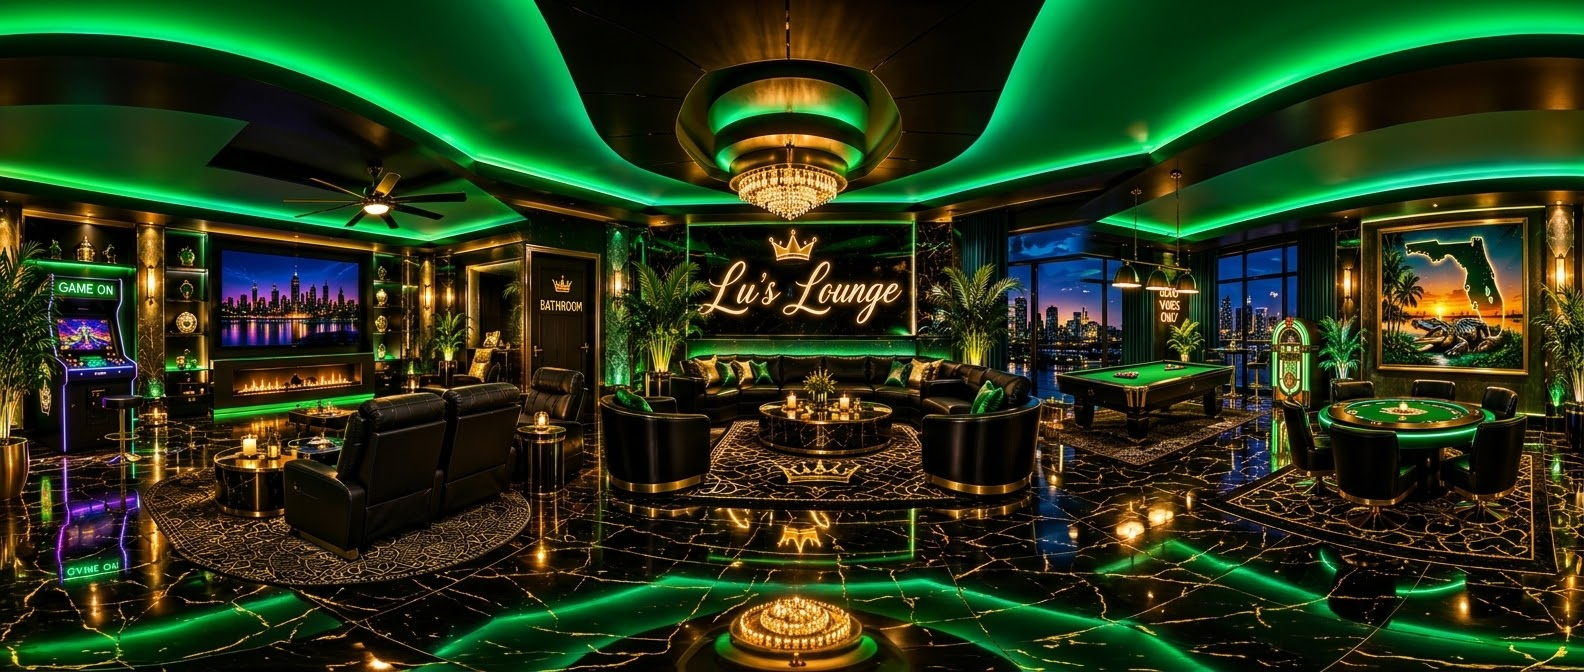
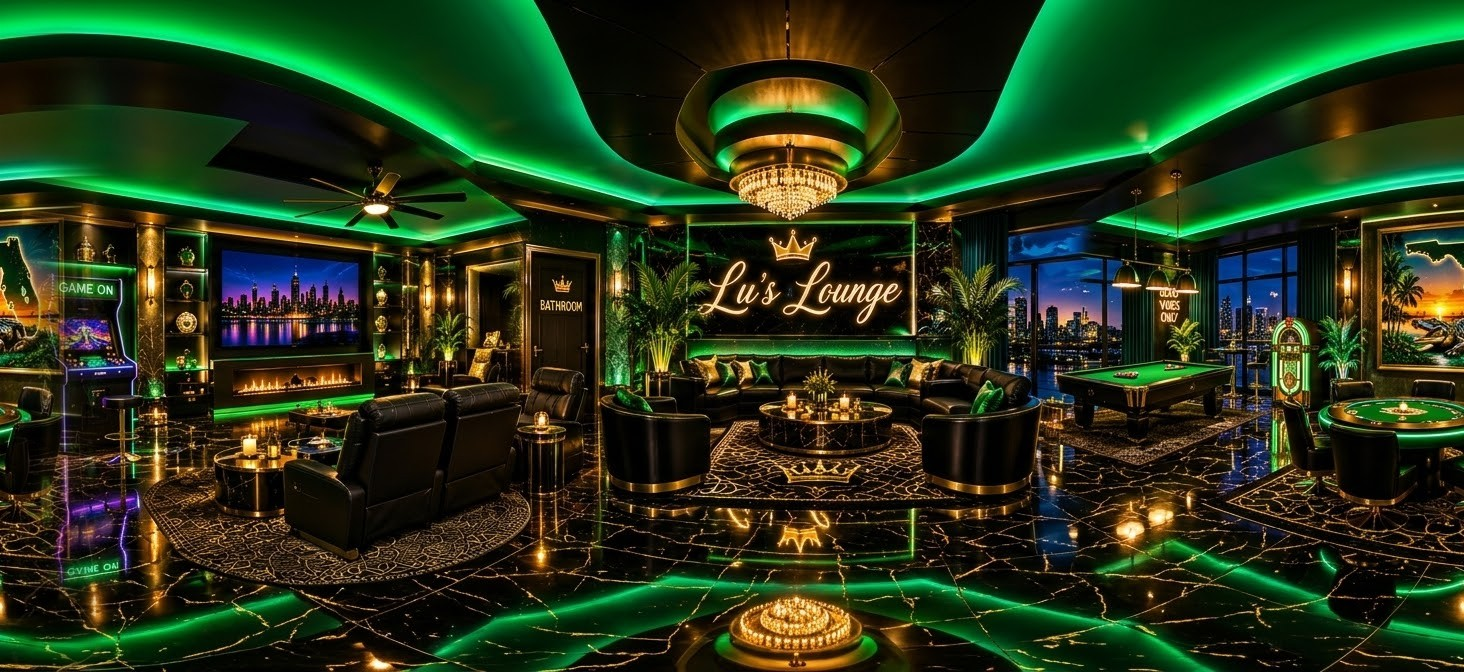
360 look-around: endless spin with blended seam, momentum, arrows
Claude-Session: https://claude.ai/code/session_014kKEAi9YpWMgHaP7K5RMBS

diff --git a/shop.js b/shop.js
@@ -88,9 +88,9 @@ const tabsMarkup = (id, a, b) => `<div class="tabs" id="${id}"><button type="but
 
 /* ---------- the menu: three floating holograms ---------- */
 const ITEMS = [
-  { id: "ice",  icon: "❄", name: "Honeydrippers", detail: "Frozen Kool-Aid ice cups with candy and/or fruit", kind: "amount", color: "mint",  spot: { l: 44.2, t: 50, w: 7, h: 16 } },
-  { id: "tea",  icon: "🌴", name: "Herbal teas",   detail: "Small or Big · choose a bundle",                    kind: "tea",    color: "green", spot: { l: 49.0, t: 47.5, w: 7, h: 16 } },
-  { id: "shot", icon: "⚕", name: "Herbal shots",  detail: "Small or Medium · priced per shot glass",           kind: "shot",   color: "gold",  spot: { l: 53.8, t: 50, w: 7, h: 16 } }
+  { id: "ice",  icon: "❄", name: "Honeydrippers", detail: "Frozen Kool-Aid ice cups with candy and/or fruit", kind: "amount", color: "mint",  spot: { l: 47.8, t: 50, w: 7.6, h: 16 } },
+  { id: "tea",  icon: "🌴", name: "Herbal teas",   detail: "Small or Big · choose a bundle",                    kind: "tea",    color: "green", spot: { l: 53.0, t: 47.5, w: 7.6, h: 16 } },
+  { id: "shot", icon: "⚕", name: "Herbal shots",  detail: "Small or Medium · priced per shot glass",           kind: "shot",   color: "gold",  spot: { l: 58.2, t: 50, w: 7.6, h: 16 } }
 ];
 const COLORS = { mint: "#8dffe6", green: "#38ff7a", gold: "#ffd36a" };
 
@@ -125,14 +125,26 @@ root.innerHTML = `
   <section class="lounge" aria-label="Lu’s Lounge lounge">
     <div class="lounge-viewport" id="lounge-viewport">
       <div class="lounge-world" id="lounge-world">
-        <img class="lounge-art" src="./art/lounge.jpg" alt="The private lounge: a leather couch, pool table, graffiti wall and a bar with glowing holograms" draggable="false">
-        ${ITEMS.map(item => `<button type="button" class="spot spot-${item.color}" data-product="${item.id}" aria-label="Order ${item.name}" style="left:${item.spot.l}%;top:${item.spot.t}%;width:${item.spot.w}%;height:${item.spot.h}%"><span class="holo-glyph" aria-hidden="true">${item.icon}</span><span class="spot-ring"></span><span class="spot-tag">${item.icon} ${item.name}</span></button>`).join("")}
-        <button type="button" class="spot-door" id="bath-sign" aria-label="Open the bathroom window" style="left:33.1%;top:36.5%;width:5.1%;height:22.5%"><span class="spot-ring"></span></button>
+        <div class="lounge-copy">
+          <img class="lounge-art" src="./art/lounge.jpg" alt="The private lounge: black leather seating, a pool table, a poker table and a glowing Lu’s Lounge sign" draggable="false">
+          ${ITEMS.map(item => `<button type="button" class="spot spot-${item.color}" data-product="${item.id}" aria-label="Order ${item.name}" style="left:${item.spot.l}%;top:${item.spot.t}%;width:${item.spot.w}%;height:${item.spot.h}%"><span class="holo-glyph" aria-hidden="true">${item.icon}</span><span class="spot-ring"></span><span class="spot-tag">${item.icon} ${item.name}</span></button>`).join("")}
+          <button type="button" class="spot-door" data-bath aria-label="Open the bathroom window" style="left:36%;top:36.5%;width:5%;height:22.5%"><span class="spot-ring"></span></button>
+        </div>
+        <div class="lounge-copy">
+          <img class="lounge-art" src="./art/lounge.jpg" alt="The private lounge: black leather seating, a pool table, a poker table and a glowing Lu’s Lounge sign" draggable="false">
+          ${ITEMS.map(item => `<button type="button" class="spot spot-${item.color}" data-product="${item.id}" aria-label="Order ${item.name}" style="left:${item.spot.l}%;top:${item.spot.t}%;width:${item.spot.w}%;height:${item.spot.h}%"><span class="holo-glyph" aria-hidden="true">${item.icon}</span><span class="spot-ring"></span><span class="spot-tag">${item.icon} ${item.name}</span></button>`).join("")}
+          <button type="button" class="spot-door" data-bath aria-label="Open the bathroom window" style="left:36%;top:36.5%;width:5%;height:22.5%"><span class="spot-ring"></span></button>
+        </div>
+        <div class="lounge-copy">
+          <img class="lounge-art" src="./art/lounge.jpg" alt="The private lounge: black leather seating, a pool table, a poker table and a glowing Lu’s Lounge sign" draggable="false">
+          ${ITEMS.map(item => `<button type="button" class="spot spot-${item.color}" data-product="${item.id}" aria-label="Order ${item.name}" style="left:${item.spot.l}%;top:${item.spot.t}%;width:${item.spot.w}%;height:${item.spot.h}%"><span class="holo-glyph" aria-hidden="true">${item.icon}</span><span class="spot-ring"></span><span class="spot-tag">${item.icon} ${item.name}</span></button>`).join("")}
+          <button type="button" class="spot-door" data-bath aria-label="Open the bathroom window" style="left:36%;top:36.5%;width:5%;height:22.5%"><span class="spot-ring"></span></button>
+        </div>
       </div>
     </div>
     <button class="look look-left" id="look-left" type="button" aria-label="Look left">‹</button>
     <button class="look look-right" id="look-right" type="button" aria-label="Look right">›</button>
-    <p class="lounge-hint">DRAG TO LOOK AROUND · TAP A HOLOGRAM TO ORDER</p>
+    <p class="lounge-hint">SPIN TO LOOK AROUND · TAP A HOLOGRAM</p>
     <div class="closed-veil" id="closed-veil" hidden><b>THE LOUNGE IS CLOSED</b><span>You can still check your orders below and message the shadow through the bathroom door.</span></div>
   </section>
 
@@ -207,31 +219,29 @@ root.innerHTML = `
 
 try { window.nightshopPwa?.mountPanel($("#app-panel"), { supabase, toast }); } catch (e) { console.error("App panel failed:", e); }
 
-/* ---------- look around the lounge (drag, swipe, or arrow buttons) ---------- */
-const RATIO = 1584 / 672;
+/* ---------- look around the lounge: a 360° spin. Drag or swipe, or use the arrows; it wraps around forever ---------- */
+const RATIO = 1464 / 672;
 const viewport = $("#lounge-viewport");
 const world = $("#lounge-world");
-let pan = 0, maxPan = 0, laidOut = false, dragged = false;
+let pan = 0, picW = 0, laidOut = false, dragged = false, spinning = null;
 
-function setPan(value, animate = false) {
-  pan = Math.min(maxPan, Math.max(0, value));
-  world.style.transition = animate ? "transform .35s ease" : "none";
-  world.style.transform = "translate3d(" + (-pan) + "px,0,0)";
-  $("#look-left").disabled = pan <= 1;
-  $("#look-right").disabled = pan >= maxPan - 1;
+function setPan(value) {
+  if (!picW) return;
+  pan = ((value % picW) + picW) % picW;                       // wrap: past one edge you come back in at the other
+  world.style.transform = "translate3d(" + (-(picW + pan)) + "px,0,0)";   // three copies side by side, we always show the middle one's range
 }
 function layout() {
   const vw = viewport.clientWidth;
   if (!vw) return;                                          // shop not on screen yet; the observer below calls us again
-  const ratioPan = maxPan ? pan / maxPan : 1;              // start looking at the bar and holograms
   const height = Math.max(Math.min(Math.max(vw / RATIO, 320), Math.round(window.innerHeight * 0.62), 560), vw / RATIO);
-  const width = height * RATIO;
+  const width = height * RATIO, before = picW;
   viewport.style.height = height + "px";
-  world.style.width = width + "px";
+  world.style.width = (width * 3) + "px";
   world.style.height = height + "px";
-  world.style.setProperty("--wu", (width / 100) + "px");     // 1% of the picture's width, so the sign scales with the scene
-  maxPan = Math.max(0, width - vw);
-  setPan(laidOut ? ratioPan * maxPan : maxPan);
+  world.style.setProperty("--wu", (width / 100) + "px");     // 1% of the picture's width, so the holograms scale with the scene
+  picW = width;
+  // first view: look at the coffee table and the holograms
+  setPan(laidOut ? pan * (width / before) : 0.565 * width - vw / 2);
   laidOut = true;
 }
 layout();
@@ -239,22 +249,47 @@ new ResizeObserver(layout).observe(viewport);               // re-fit whenever t
 window.addEventListener("resize", layout);
 window.addEventListener("orientationchange", () => setTimeout(layout, 250));
 
-let dragStart = null;
+function spinTo(target, ms = 380) {
+  cancelAnimationFrame(spinning);
+  const from = pan, t0 = performance.now();
+  const step = now => {
+    const k = Math.min(1, (now - t0) / ms), e = 1 - Math.pow(1 - k, 3);
+    setPan(from + (target - from) * e);
+    if (k < 1) spinning = requestAnimationFrame(step);
+  };
+  spinning = requestAnimationFrame(step);
+}
+let dragStart = null, last = null, velocity = 0;
 viewport.addEventListener("pointerdown", event => {
+  cancelAnimationFrame(spinning);
   dragStart = { x: event.clientX, pan, id: event.pointerId };
+  last = { x: event.clientX, t: performance.now() }; velocity = 0;
   dragged = false;
 });
 viewport.addEventListener("pointermove", event => {
   if (!dragStart || event.pointerId !== dragStart.id) return;
   const dx = event.clientX - dragStart.x;
   if (!dragged && Math.abs(dx) > 6) { dragged = true; viewport.setPointerCapture?.(event.pointerId); }
-  if (dragged) setPan(dragStart.pan - dx);
+  if (dragged) {
+    setPan(dragStart.pan - dx);
+    const now = performance.now(), dt = Math.max(1, now - last.t);
+    velocity = 0.8 * velocity + 0.2 * ((last.x - event.clientX) / dt); last = { x: event.clientX, t: now };
+  }
 });
-const endDrag = () => { dragStart = null; setTimeout(() => { dragged = false; }, 0); };
+const endDrag = () => {
+  const wasDrag = dragged; dragStart = null;
+  setTimeout(() => { dragged = false; }, 0);
+  if (wasDrag && Math.abs(velocity) > 0.05) {                 // keep gliding after you let go
+    let v = velocity * 16, prev = performance.now();
+    const glide = now => { const dt = (now - prev) / 16; prev = now; setPan(pan + v * dt); v *= Math.pow(0.94, dt); if (Math.abs(v) > 0.15) spinning = requestAnimationFrame(glide); };
+    spinning = requestAnimationFrame(glide);
+  }
+};
 viewport.addEventListener("pointerup", endDrag);
 viewport.addEventListener("pointercancel", endDrag);
-$("#look-left").addEventListener("click", () => setPan(pan - viewport.clientWidth * 0.45, true));
-$("#look-right").addEventListener("click", () => setPan(pan + viewport.clientWidth * 0.45, true));
+$("#look-left").addEventListener("click", () => spinTo(pan - viewport.clientWidth * 0.5));
+$("#look-right").addEventListener("click", () => spinTo(pan + viewport.clientWidth * 0.5));
+window.__spin = { get pan() { return pan; }, set: setPan };   // used by the tests
 
 /* ---------- shop open (blue lights) / closed (red lights) ---------- */
 let shopOpen = false, statusKnown = false;
@@ -333,7 +368,7 @@ root.addEventListener("click", event => {
 /* the restroom sign opens the bathroom window */
 const bathSheet = $("#bath-sheet");
 const closeBath = () => { bathSheet.hidden = true; };
-$("#bath-sign").addEventListener("click", () => { if (dragged) return; bathSheet.hidden = false; });
+root.addEventListener("click", event => { if (event.target.closest("[data-bath]")) { if (dragged) return; bathSheet.hidden = false; } });
 $("#bath-close").addEventListener("click", closeBath);
 bathSheet.addEventListener("click", event => { if (event.target.id === "bath-sheet") closeBath(); });
 document.addEventListener("keydown", event => { if (event.key === "Escape") { closeBath(); closeOrder(); closeFulfil(); closeThread(); } });

diff --git a/index.html b/index.html
@@ -87,7 +87,7 @@ footer{color:#777f91}
 <meta name="apple-mobile-web-app-status-bar-style" content="black-translucent">
 <link rel="icon" type="image/png" href="./icons/icon-192.png">
 <link rel="apple-touch-icon" href="./icons/apple-touch-icon.png">
-<link rel="stylesheet" href="./shop.css?v=nightshop-interior-8">
+<link rel="stylesheet" href="./shop.css?v=nightshop-interior-9">
 </head>
 <body>
 <header>
@@ -168,7 +168,7 @@ document.querySelector("#close-window")?.addEventListener("click", () => {
   if (windowMessage) windowMessage.hidden = true;
 });
 </script>
-<script type="module" src="./pwa.js?v=nightshop-interior-8"></script>
-<script type="module" src="./login.js?v=nightshop-interior-8"></script>
+<script type="module" src="./pwa.js?v=nightshop-interior-9"></script>
+<script type="module" src="./login.js?v=nightshop-interior-9"></script>
 </body>
 </html>

diff --git a/shop.css b/shop.css
@@ -211,3 +211,7 @@ body.entry-open{overflow:hidden}
 .closed-veil b{color:#ffd36a;text-shadow:0 0 12px #ffd36a88;font-size:clamp(16px,4.4vw,28px)}
 .closed-veil span{color:#e8f2ff;font-size:12px}
 .lounge:has(.closed-veil:not([hidden])) .lounge-art{filter:brightness(.7) saturate(.85)}
+
+.lounge-world{display:flex}
+.lounge-copy{position:relative;flex:0 0 auto;width:33.3333%;height:100%}
+.nsx .look:disabled{opacity:1;cursor:pointer}

diff --git a/login.js b/login.js
@@ -1,6 +1,6 @@
 import { supabase, SUPABASE_URL, SUPABASE_ANON_KEY } from "./supabase-client.js";
 
-const SHOP_VERSION = "nightshop-interior-8";
+const SHOP_VERSION = "nightshop-interior-9";
 
 const form = document.querySelector("#login-form");
 const note = document.querySelector("#status-note");
